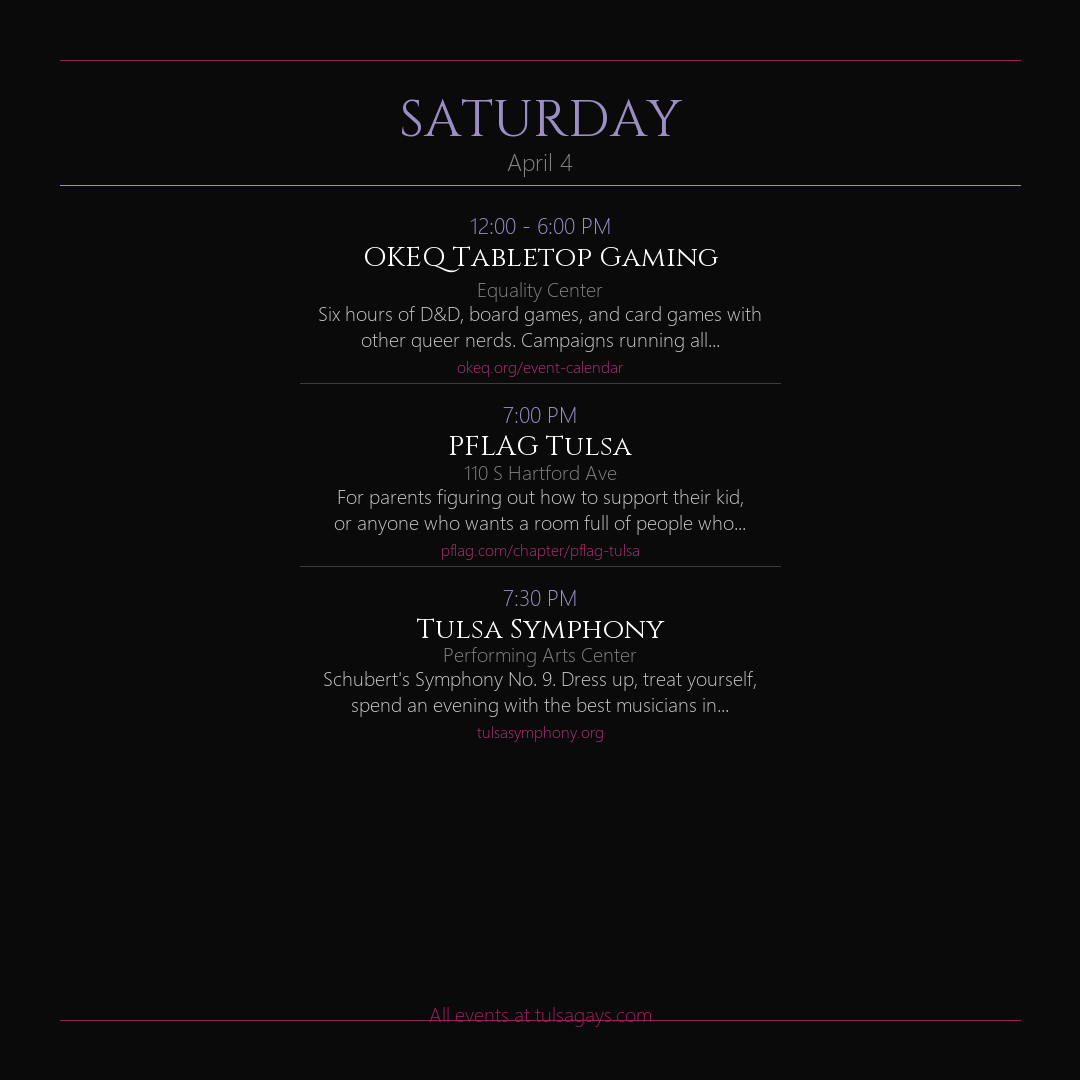
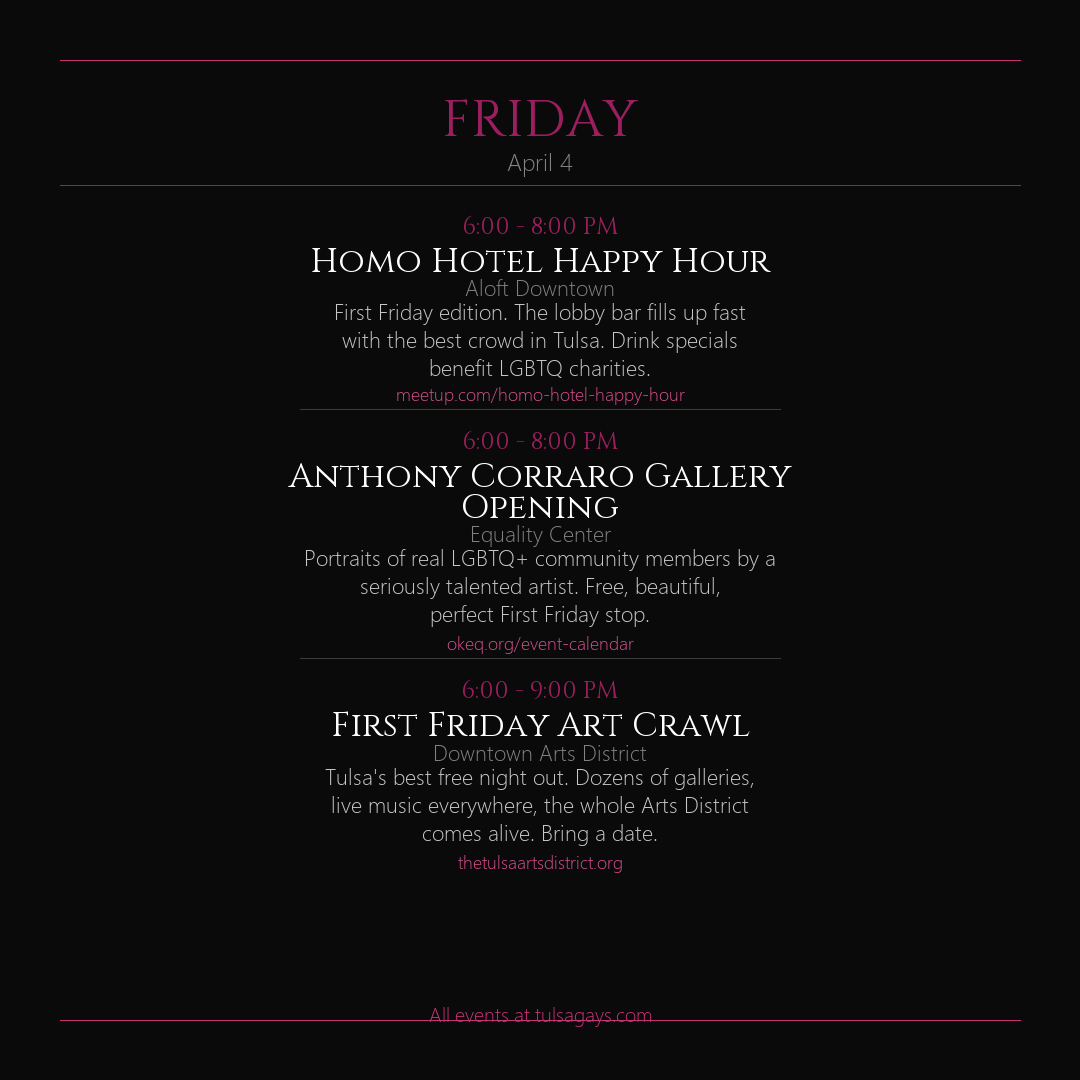
Fix carousel: add Tuesday, real Easter events, better readability
- All 7 days now have slides (Tuesday was missing)
- Saturday/Sunday have real Easter events (egg hunts, church, Philbrook)
- Brighter pink for better contrast on dark background
- Larger fonts, longer descriptions, bolder time text
- No more filler "sit on your couch" events

Changed region(s): [[0.275, 0.1833, 0.7333, 0.825], [0.3667, 0.0917, 0.6417, 0.1222]]

diff --git a/gen_this_week.py b/gen_this_week.py
@@ -1,0 +1,58 @@
+"""Generate this week's carousel slides (Apr 1-6, 2026)."""
+import sys, os
+sys.path.insert(0, '.')
+from content.image_maker import create_weekly_carousel, save_carousel
+
+event_of_week = {
+    "name": "Homo Hotel Happy Hour",
+    "date": "Friday, April 4",
+    "time": "6:00 - 8:00 PM",
+    "venue": "wxyz bar, Aloft Tulsa Downtown",
+    "description": "The best networking event in queer Tulsa, period. Drink specials, a gorgeous lobby bar, and every dollar supports local LGBTQ charities. If you only go to one thing this week, make it this.",
+    "url": "meetup.com/homo-hotel-happy-hour",
+}
+
+daily_events = {
+    "monday": ("March 31", [
+        {"name": "Lambda Bowling League", "time": "7:00 - 9:00 PM", "venue": "AMF Sheridan Lanes", "description": "The most fun you can have on a Monday night. All skill levels welcome, nobody cares if you bowl a 60. It's about the people.", "url": "facebook.com/groups/4177858394"},
+        {"name": "Smart Recovery (online)", "time": "6:30 PM", "venue": "Virtual", "description": "Evidence-based recovery support from the comfort of your home. No labels, no steps, just science and community. Free.", "url": "okeq.org/event-calendar"},
+        {"name": "Plan Your Queer Week", "time": "Morning", "venue": "tulsagays.com", "description": "New events drop every Monday. Bookmark tulsagays.com and never miss what happens in your community.", "url": "tulsagays.com"},
+    ]),
+    "tuesday": ("April 1", [
+        {"name": "OSU Tulsa Queer Support Group", "time": "6:00 PM", "venue": "OSU Tulsa Campus", "description": "Free, open to all adults. A safe weekly space to talk about what it means to be queer in Oklahoma right now.", "url": "events.tulsa.okstate.edu"},
+        {"name": "Tulsa Artist Fellowship Studios", "time": "Afternoon", "venue": "Downtown Tulsa", "description": "Drop in and see what Tulsa artists are creating this week. Free, walkable, and always something unexpected on the walls.", "url": "tulsaartistfellowship.org"},
+        {"name": "Gathering Place Evening Walk", "time": "5:00 - 7:00 PM", "venue": "Gathering Place", "description": "Tulsa's best park is gorgeous at sunset. Grab a friend, walk the trails, decompress. Free and inclusive.", "url": "gatheringplace.org"},
+    ]),
+    "wednesday": ("April 2", [
+        {"name": "Queer Women's Collective", "time": "5:00 - 6:30 PM", "venue": "Equality Center", "description": "Low-key, no-pressure way to meet other LGBTQ+ women in Tulsa. Show up, grab a drink, make a friend. First Wednesdays only.", "url": "okeq.org/event-calendar"},
+        {"name": "Tulsa Leather Community", "time": "6:30 - 8:30 PM", "venue": "Equality Center", "description": "Judgment-free education and connection for the leather community. Curious or experienced, safest room in Tulsa to ask questions.", "url": "okeq.org/event-calendar"},
+        {"name": "Gender Support Group", "time": "7:00 - 8:30 PM", "venue": "Equality Center", "description": "Real talk with people who actually get it. Breakout sessions for trans and intersex folks navigating life in Oklahoma.", "url": "okeq.org/transgender-support"},
+    ]),
+    "thursday": ("April 3", [
+        {"name": "Queer Crafters Club", "time": "6:00 - 8:00 PM", "venue": "Equality Center Gallery", "description": "Bring whatever you are working on and make stuff alongside other queer creatives. The gallery space is beautiful.", "url": "okeq.org/event-calendar"},
+        {"name": "Relationships Outside the Box", "time": "7:00 - 8:00 PM", "venue": "Equality Center", "description": "A rare, honest space for people in non-traditional relationships. No judgment, just real conversation about how love works.", "url": "okeq.org/event-calendar"},
+        {"name": "DRAGNIFICENT! at Club Majestic", "time": "Doors 9PM, Show 11PM", "venue": "124 N Boston Ave", "description": "Tulsa's legendary Thursday drag show hosted by Shanel Sterling. Local queens, visiting talent, and energy you can't get from Netflix.", "url": "downtowntulsa.com/do/dragnificent"},
+    ]),
+    "friday": ("April 4", [
+        {"name": "Homo Hotel Happy Hour", "time": "6:00 - 8:00 PM", "venue": "Aloft Downtown", "description": "First Friday edition. The lobby bar fills up fast with the best crowd in Tulsa. Drink specials benefit LGBTQ charities.", "url": "meetup.com/homo-hotel-happy-hour"},
+        {"name": "Anthony Corraro Gallery Opening", "time": "6:00 - 8:00 PM", "venue": "Equality Center", "description": "Portraits of real LGBTQ+ community members by a seriously talented artist. Free, beautiful, perfect First Friday stop.", "url": "okeq.org/event-calendar"},
+        {"name": "First Friday Art Crawl", "time": "6:00 - 9:00 PM", "venue": "Downtown Arts District", "description": "Tulsa's best free night out. Dozens of galleries, live music everywhere, the whole Arts District comes alive. Bring a date.", "url": "thetulsaartsdistrict.org"},
+    ]),
+    "saturday": ("April 5 - Easter Eve", [
+        {"name": "Eggstravaganza at Guthrie Green", "time": "10:00 AM - 12:00 PM", "venue": "111 E Reconciliation Way", "description": "Free Easter egg hunt downtown with music, food trucks, face painting, and prizes. Bring the whole crew. All ages.", "url": "downtowntulsa.com"},
+        {"name": "Spring With the Bunny at Tulsa Zoo", "time": "9:00 AM - 12:00 PM", "venue": "Tulsa Zoo", "description": "Easter Bunny meet and greets, animal chats, and crafts. Free with zoo admission. Perfect morning out.", "url": "tulsazoo.org"},
+        {"name": "PFLAG Tulsa", "time": "7:00 PM", "venue": "110 S Hartford Ave", "description": "For parents figuring out how to support their kid, or anyone who wants a room full of people who chose love over fear.", "url": "pflag.com/chapter/pflag-tulsa"},
+    ]),
+    "sunday": ("April 6 - Easter Sunday", [
+        {"name": "All Souls Easter Service + Egg Hunt", "time": "10:00 AM + 11:15 AM", "venue": "2952 S Peoria Ave", "description": "The largest UU church in America. Easter service, then an egg hunt on the west playground at 11:15. Bring a basket. All welcome.", "url": "allsoulschurch.org/easter"},
+        {"name": "Philbrook Art in Bloom", "time": "9:00 AM - 5:00 PM", "venue": "2727 S Rockford Rd", "description": "The museum and gardens are stunning on Easter. Special floral installations throughout. Dress up, bring a date, take pictures.", "url": "philbrook.org"},
+        {"name": "Club Majestic Sunday Showcase", "time": "Evening", "venue": "124 N Boston Ave", "description": "Easter drag. Tulsa's emerging talent takes the stage hosted by Shanel Sterling. Big energy to close out the holiday.", "url": "facebook.com/clubmajestictulsa"},
+    ]),
+}
+
+slides = create_weekly_carousel(event_of_week, daily_events, "March 31 - April 6, 2026")
+output = os.path.join("docs", "images", "weekly")
+paths = save_carousel(slides, output)
+print(f"Generated {len(paths)} slides:")
+for p in paths:
+    print(f"  {os.path.basename(p)}")

diff --git a/content/image_maker.py b/content/image_maker.py
@@ -25,9 +25,9 @@ import config
 # ── Brand Constants ─────────────────────────────────────────────────────
 SIZE = (1080, 1080)
 BG = (10, 10, 10)
-PINK = (155, 30, 95)
-PINK_LIGHT = (180, 50, 115)
-PINK_DARK = (110, 20, 65)
+PINK = (200, 50, 120)
+PINK_LIGHT = (220, 80, 145)
+PINK_DARK = (160, 30, 85)
 WHITE = (255, 255, 255)
 LIGHT = (200, 200, 200)
 MUTED = (130, 130, 130)
@@ -276,11 +276,11 @@ def make_day_slide(day_name: str, date_str: str, events: List[Dict]) -> Image.Im
     draw.line([(PAD, 185), (SIZE[0] - PAD, 185)], fill=day_color, width=1)
     y = 210
 
-    # Events (3-5 per slide)
-    name_font = _cinzel(28)
-    venue_font = _segoe_light(20)
-    desc_font = _segoe_body(20)
-    time_font = _segoe_light(22)
+    # Events (3-5 per slide) - sized to fill the slide, high contrast
+    name_font = _cinzel(34)
+    venue_font = _segoe_light(22)
+    desc_font = _segoe_body(22)
+    time_font = _cinzel(24)
 
     displayed = events[:MAX_EVENTS]
     for i, ev in enumerate(displayed):
@@ -304,14 +304,14 @@ def make_day_slide(day_name: str, date_str: str, events: List[Dict]) -> Image.Im
         # Description (1-2 sentences, hyped)
         desc = ev.get("description", "")
         if desc:
-            if len(desc) > 100:
-                desc = desc[:97].rsplit(" ", 1)[0] + "..."
+            if len(desc) > 140:
+                desc = desc[:137].rsplit(" ", 1)[0] + "..."
             y = _wrapped_centered(draw, desc, y, desc_font, LIGHT, max_width=SIZE[0] - 2 * PAD - 60)
 
         # Event URL
         url = ev.get("url", "")
         if url:
-            url_font = _segoe_light(16)
+            url_font = _segoe_body(18)
             y += 4
             _centered(draw, url, y, url_font, PINK_LIGHT)
             y += 20
